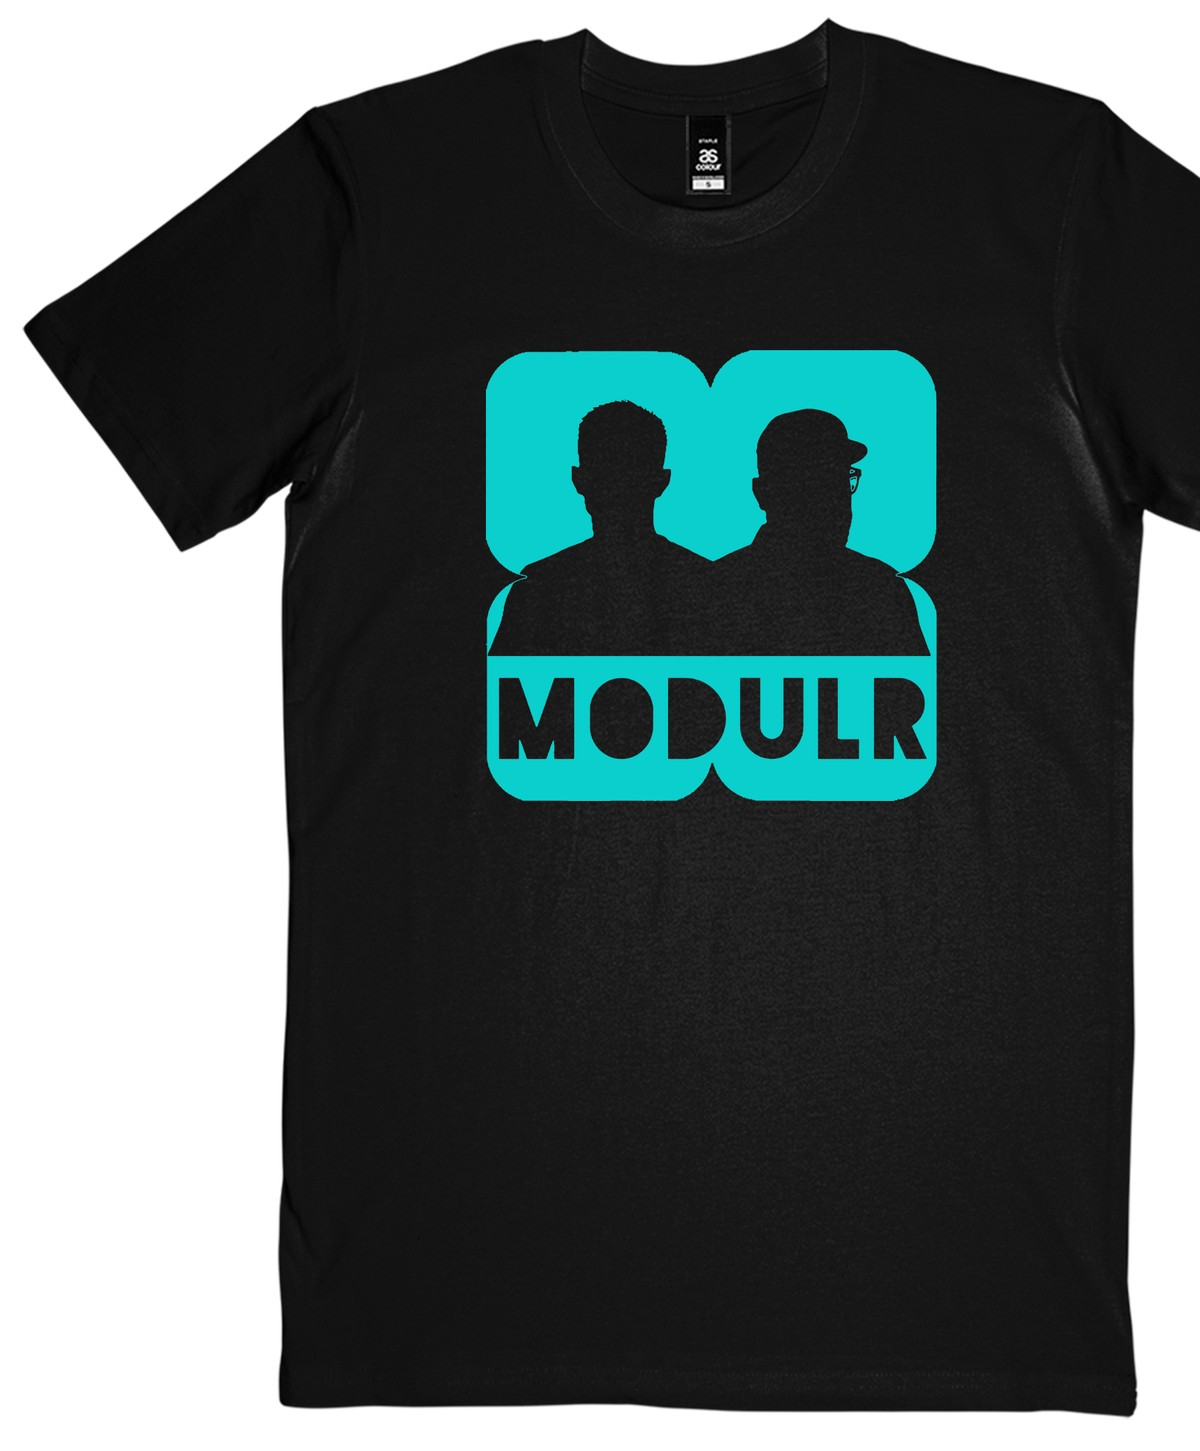
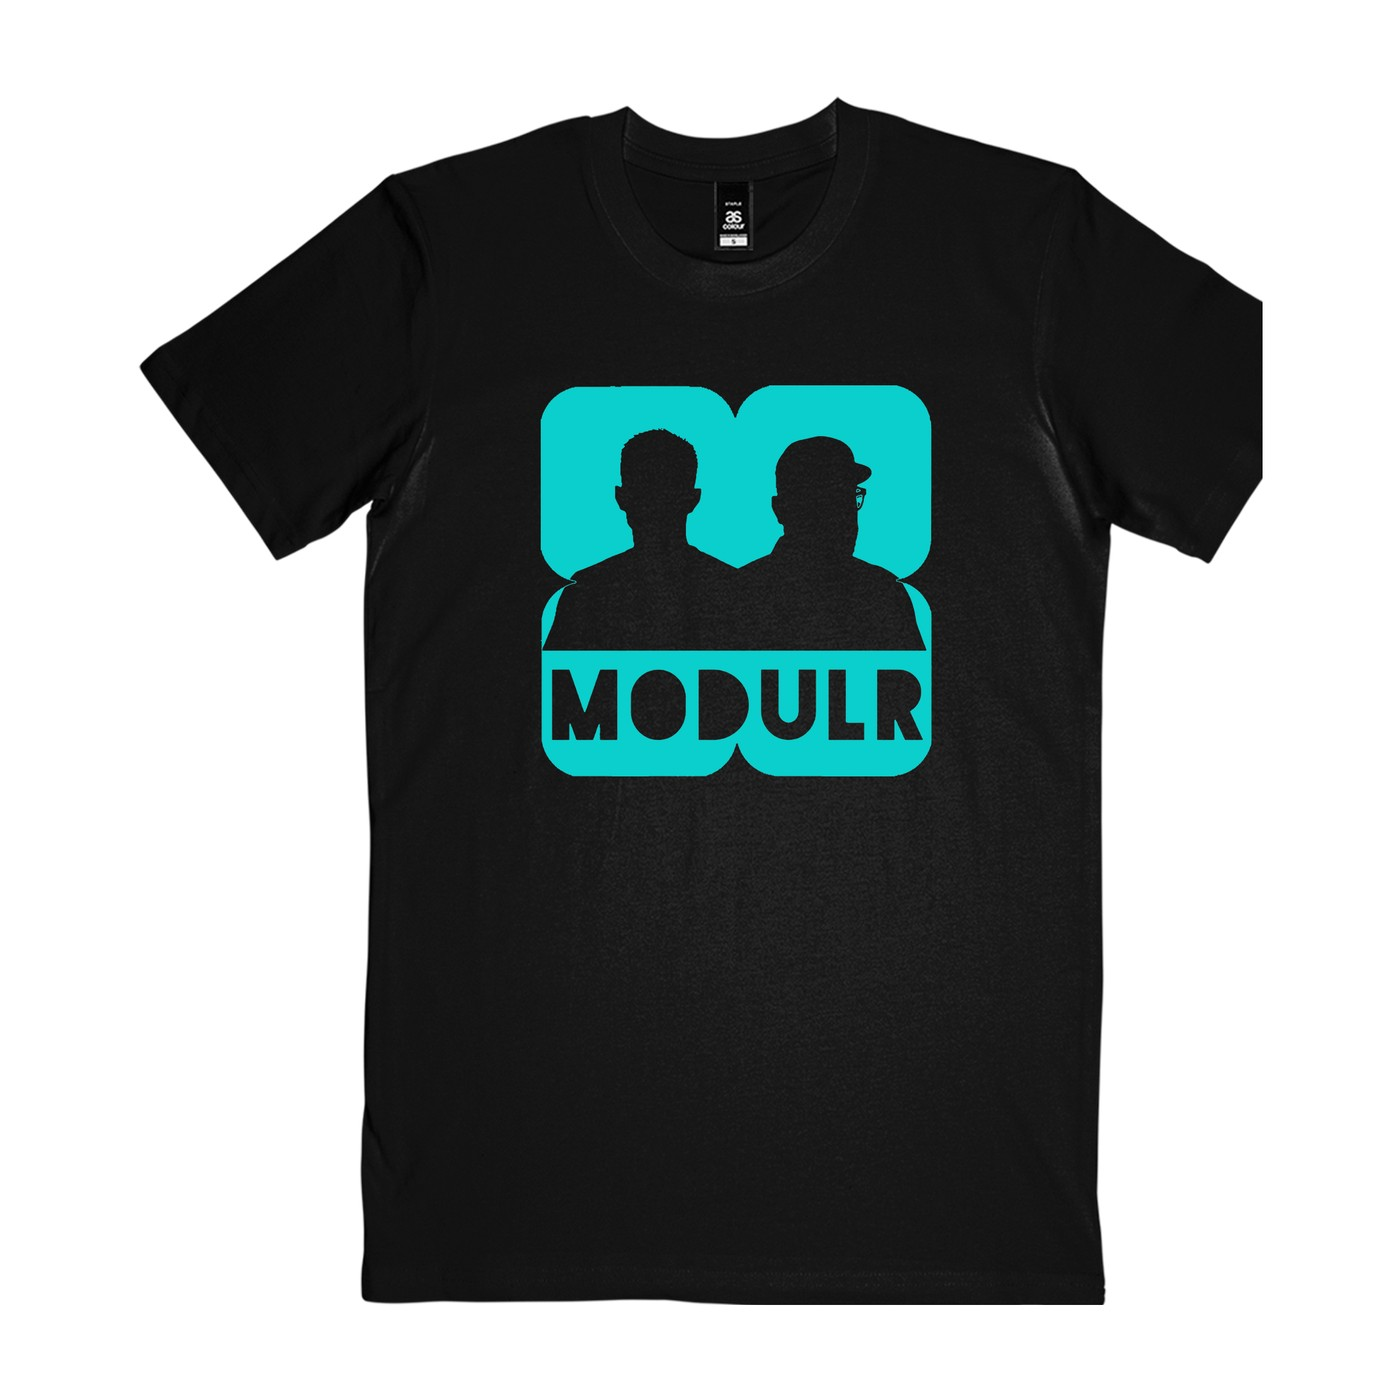
Store: rebuild tee images from full mockup (complete shirt, both sleeves, centered square); square product frame

Changed region(s): [[0.0, 0.0, 1.0, 0.9829], [0.4933, 0.1536, 0.555, 0.1843], [0.2775, 0.3071, 0.3083, 0.3379]]

diff --git a/src/styles/global.css b/src/styles/global.css
@@ -530,7 +530,7 @@ body.menu-open { overflow: hidden; }
 /* store: frameless (Yeezy style) */
 #store .store-grid { display:grid; grid-template-columns:1fr; gap:46px; max-width:1000px; margin:0 auto; justify-items:center; }
 #store .product { width:100%; max-width:430px; text-align:center; }
-#store .prod-art { width:100%; aspect-ratio:4/5; background:transparent; border:0; display:flex; align-items:center; justify-content:center; }
+#store .prod-art { width:100%; aspect-ratio:1/1; background:transparent; border:0; display:flex; align-items:center; justify-content:center; }
 #store .prod-art img { width:100%; height:100%; object-fit:contain; display:block; }
 #store .prod-info { margin-top:12px; display:flex; flex-direction:column; align-items:center; gap:5px; }
 #store .prod-info h3 { font:800 clamp(15px,1.4vw,18px)/1.2 var(--font-brand); letter-spacing:.02em; text-transform:uppercase; }